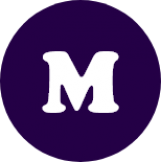
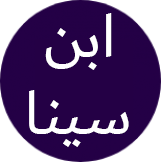
change to ibnsinastore app info

Changed region(s): [[0.1553, 0.0617, 0.8075, 0.9259], [0.3416, 0.1543, 0.4037, 0.2469]]

diff --git a/lib/web_view.dart b/lib/web_view.dart
@@ -94,7 +94,7 @@ class _WebViewStoreState extends State<WebViewStore> {
           child: InAppWebView(
             key: webViewKey,
             initialUrlRequest:
-            URLRequest(url: Uri.parse('http://resturant.shantaweb.com')),
+            URLRequest(url: Uri.parse('http://ibnsinastore.shantaweb.com')),
             // initialHeaders: {'Mobile': 'moibile'},
             initialOptions: options,
             pullToRefreshController: pullToRefreshController,

diff --git a/lib/splash_screen.dart b/lib/splash_screen.dart
@@ -44,7 +44,7 @@ class _SplashScreenState extends State<SplashScreen> {
               Image.asset('assets/welcome.png'),
               SizedBox(height: 35.0),
               Text(
-                'Welcome To Mariam Store',
+                'مرحباً بك في متجر ابن سينا',
                 style: TextStyle(
                   color: Colors.white,
                   fontSize: 25,

diff --git a/lib/main.dart b/lib/main.dart
@@ -17,7 +17,7 @@ class MyApp extends StatelessWidget {
   Widget build(BuildContext context) {
     return MaterialApp(
       debugShowCheckedModeBanner: false,
-      title: 'Mariam',
+      title: 'ابن سينا',
       theme: ThemeData(
         primarySwatch: Colors.blue,
       ),

diff --git a/test/widget_test.dart b/test/widget_test.dart
@@ -8,7 +8,7 @@
 import 'package:flutter/material.dart';
 import 'package:flutter_test/flutter_test.dart';
 
-import 'package:mariam/main.dart';
+import 'package:ibnsinastore/main.dart';
 
 void main() {
   testWidgets('Counter increments smoke test', (WidgetTester tester) async {

diff --git a/android/app/src/main/kotlin/com/loqman/mariam/MainActivity.kt b/android/app/src/main/kotlin/com/loqman/mariam/MainActivity.kt
@@ -1,4 +1,4 @@
-package com.loqman.mariam
+package com.shanta.ibnsinastore
 
 import io.flutter.embedding.android.FlutterActivity
 

diff --git a/README.md b/README.md
@@ -1,4 +1,4 @@
-# mariam
+# ibnsinastore
 
 A new Flutter project.
 
